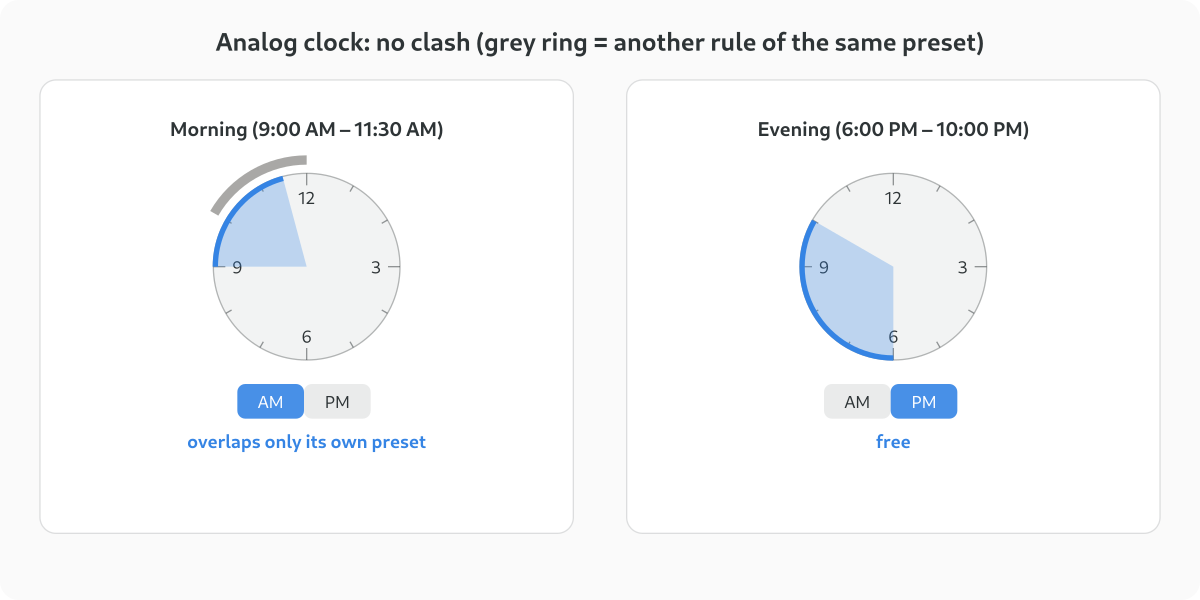
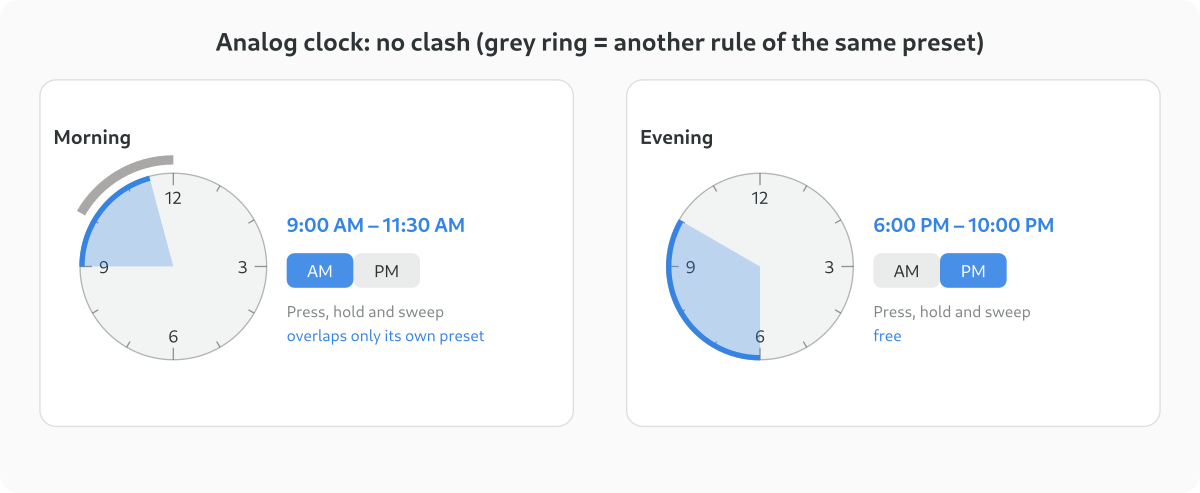
Tidy schedule UI: short dropdown labels (no ellipsis), clock side layout, separate time line; add AGENT-HANDOFF.md

diff --git a/docs/screens/make_mockups.py b/docs/screens/make_mockups.py
@@ -15,7 +15,8 @@ def arc(cx, cy, r, a, b):
     return f"M {x1:.1f} {y1:.1f} A {r} {r} 0 {int(b - a > 360)} 1 {x2:.1f} {y2:.1f}"
 
 def dial(cx, cy, title, own, others, color, labels=("12", "3", "6", "9"), caption="", pm=False):
-    s = f'<text x="{cx}" y="{cy-98}" text-anchor="middle" font-size="15" font-weight="bold" fill="{FG}">{title}</text>'
+    name, times = title.split(" (")
+    s = f'<text x="{cx-90}" y="{cy-92}" font-size="15" font-weight="bold" fill="{FG}">{name}</text>'
     s += f'<circle cx="{cx}" cy="{cy}" r="70" fill="{FG}" fill-opacity=".06" stroke="{FG}" stroke-opacity=".35"/>'
     for i in range(12):
         (x1, y1), (x2, y2) = pt(cx, cy, 70 - (9 if i % 3 == 0 else 5), i * 60), pt(cx, cy, 70, i * 60)
@@ -29,9 +30,11 @@ def dial(cx, cy, title, own, others, color, labels=("12", "3", "6", "9"), captio
     x1, y1 = pt(cx, cy, 70, a)
     s += f'<path d="M {cx} {cy} L {x1:.1f} {y1:.1f} A 70 70 0 {int(b - a > 360)} 1 {pt(cx, cy, 70, b)[0]:.1f} {pt(cx, cy, 70, b)[1]:.1f} Z" fill="{color}" fill-opacity=".28"/>'
     s += f'<path d="{arc(cx, cy, 68.5, a, b)}" stroke="{color}" stroke-width="4" fill="none"/>'
-    for dx, t, on in ((-52, "AM", not pm), (-2, "PM", pm)):
-        s += f'<rect x="{cx+dx}" y="{cy+88}" width="50" height="26" rx="6" fill="{BLUE if on else FG}" fill-opacity="{.9 if on else .1}"/><text x="{cx+dx+25}" y="{cy+106}" text-anchor="middle" font-size="13" fill="{"#fff" if on else FG}">{t}</text>'
-    s += f'<text x="{cx}" y="{cy+136}" text-anchor="middle" font-size="14" font-weight="bold" fill="{color}">{caption}</text>'
+    s += f'<text x="{cx+85}" y="{cy-26}" font-size="15" font-weight="bold" fill="{color}">{times.rstrip(")")}</text>'
+    for dx, t, on in ((0, "AM", not pm), (50, "PM", pm)):
+        s += f'<rect x="{cx+85+dx}" y="{cy-10}" width="50" height="26" rx="6" fill="{BLUE if on else FG}" fill-opacity="{.9 if on else .1}"/><text x="{cx+110+dx}" y="{cy+8}" text-anchor="middle" font-size="13" fill="{"#fff" if on else FG}">{t}</text>'
+    s += f'<text x="{cx+85}" y="{cy+38}" font-size="12" fill="{FG}" fill-opacity=".6">Press, hold and sweep</text>'
+    s += f'<text x="{cx+85}" y="{cy+56}" font-size="12" fill="{color}">{caption}</text>'
     return s
 
 def svg(w, h, body):
@@ -44,19 +47,19 @@ def card(x, y, w, h):
 # --- analog: "Morning" 9:00-12:00 is alone (blue), "Work" 11:00-5:00 PM overlaps it
 def analog():
     b = f'<text x="450" y="38" text-anchor="middle" font-size="19" font-weight="bold" fill="{FG}">Analog clock: press, hold and sweep</text>'
-    b += card(30, 60, 400, 340) + card(470, 60, 400, 340)
+    b += card(30, 60, 400, 260) + card(470, 60, 400, 260)
     # left: rule A being edited. B overlaps -> grey/red outside
-    b += dial(230, 200, "Morning (9:00 AM – 11:30 AM)", (540, 690), [(660, 720, RED)], RED, caption="overlaps “Work”")
-    b += dial(670, 200, "Work (11:00 AM – 5:00 PM)", (660, 720), [(540, 690, RED)], RED, caption="overlaps “Morning”")
-    b += f'<text x="450" y="425" text-anchor="middle" font-size="14" fill="{FG}">Overlapping rules show the other one as a ring and both turn red. Without an overlap: grey ring, blue arc.</text>'
-    return svg(900, 450, b)
+    b += dial(130, 200, "Morning (9:00 AM – 11:30 AM)", (540, 690), [(660, 720, RED)], RED, caption="overlaps “Work”")
+    b += dial(570, 200, "Work (11:00 AM – 5:00 PM)", (660, 720), [(540, 690, RED)], RED, caption="overlaps “Morning”")
+    b += f'<text x="450" y="345" text-anchor="middle" font-size="14" fill="{FG}">Overlapping rules show the other one as a ring and both turn red. Without an overlap: grey ring, blue arc.</text>'
+    return svg(900, 370, b)
 
 def analog_ok():
     b = f'<text x="450" y="38" text-anchor="middle" font-size="19" font-weight="bold" fill="{FG}">Analog clock: no clash (grey ring = another rule of the same preset)</text>'
-    b += card(30, 60, 400, 340) + card(470, 60, 400, 340)
-    b += dial(230, 200, "Morning (9:00 AM – 11:30 AM)", (540, 690), [(600, 720, GREY)], BLUE, caption="overlaps only its own preset")
-    b += dial(670, 200, "Evening (6:00 PM – 10:00 PM)", (360, 600), [], BLUE, caption="free", pm=True)
-    return svg(900, 450, b)
+    b += card(30, 60, 400, 260) + card(470, 60, 400, 260)
+    b += dial(130, 200, "Morning (9:00 AM – 11:30 AM)", (540, 690), [(600, 720, GREY)], BLUE, caption="overlaps only its own preset")
+    b += dial(570, 200, "Evening (6:00 PM – 10:00 PM)", (360, 600), [], BLUE, caption="free", pm=True)
+    return svg(900, 370, b)
 
 def digital():
     def t(x, y, text, c, hl_min=False):

diff --git a/src/ui/mod.rs b/src/ui/mod.rs
@@ -305,21 +305,25 @@ fn settings_page(ctx: &Rc<AppCtx>) -> (adw::PreferencesPage, Rc<dyn Fn()>) {
         let st = ctx.state.borrow();
         ((st.time_picker, st.end_action, st.swap_mode, st.per_preset_behaviour), st.swap_minutes)
     };
-    let group = adw::PreferencesGroup::builder().title("Schedule").description("How preset schedules are entered, and what happens at their edges.").build();
-    let combo = |title: &str, subtitle: &str, labels: Vec<&str>, selected: u32| {
-        adw::ComboRow::builder().title(title).subtitle(subtitle).model(&gtk::StringList::new(&labels)).selected(selected).build()
+    let group = adw::PreferencesGroup::builder()
+        .title("Schedule")
+        .description("Free: a swap stays until the schedule moves on. Timer: the schedule takes over again after a while. Lock: a scheduled preset cannot be swapped away.")
+        .build();
+    // Short choices, shown under the title (use_subtitle): a value beside the title gets squeezed into "…" in a narrow window.
+    let combo = |title: &str, labels: Vec<&str>, selected: u32| {
+        adw::ComboRow::builder().title(title).use_subtitle(true).model(&gtk::StringList::new(&labels)).selected(selected).build()
     };
-    let picker = combo("Time selection", "Spin boxes, an analog clock you sweep with the mouse, or a digital clock you drag up and down.", TimePicker::labels(), ts.0.index());
+    let picker = combo("Time selection", TimePicker::labels(), ts.0.index());
     {
         let ctx = ctx.clone();
         picker.connect_selected_notify(move |r| ctx.set_time_picker(TimePicker::from_index(r.selected())));
     }
-    let end = combo("When a scheduled preset ends", "Nothing is scheduled after it.", EndAction::labels(), ts.1.index());
+    let end = combo("When a scheduled preset ends", EndAction::labels(), ts.1.index());
     {
         let ctx = ctx.clone();
         end.connect_selected_notify(move |r| ctx.set_end_action(EndAction::from_index(r.selected())));
     }
-    let swap = combo("When I switch preset during a schedule", "Applies to the radio buttons, the dropdown and hotkeys.", SwapMode::labels(), ts.2.index());
+    let swap = combo("When I switch preset during a schedule", SwapMode::labels(), ts.2.index());
     let minutes = adw::SpinRow::builder().title("Timer length").subtitle("Minutes before the schedule takes over again").adjustment(&gtk::Adjustment::new(f64::from(ds), 1.0, 1440.0, 5.0, 30.0, 0.0)).build();
     minutes.set_visible(ts.2 == SwapMode::Timer);
     {
@@ -370,6 +374,7 @@ fn settings_page(ctx: &Rc<AppCtx>) -> (adw::PreferencesPage, Rc<dyn Fn()>) {
     let files = adw::PreferencesGroup::builder().title("Files").description("Applies to GIFs, PNGs, WebPs, widget folders and masks you add.").build();
     let storage = adw::ComboRow::builder()
         .title("When adding files")
+        .use_subtitle(true)
         .model(&gtk::StringList::new(&Storage::ALL.map(|s| s.label())))
         .selected(ctx.state.borrow().storage.index())
         .build();

diff --git a/src/ui/clock.rs b/src/ui/clock.rs
@@ -218,7 +218,7 @@ pub fn analog(ctx: &Rc<AppCtx>, rule: &Rule, h24: bool, edit: Edit) -> (gtk::Box
         });
     }
 
-    let summary = gtk::Label::builder().css_classes(["gifdeck-digital"]).halign(gtk::Align::Center).build();
+    let summary = gtk::Label::builder().css_classes(["gifdeck-digital"]).halign(gtk::Align::Start).build();
     let show = {
         let summary = summary.clone();
         move |s: u16, e: u16| summary.set_text(&format!("{} – {}", fmt_time(s, h24), fmt_time(e, h24)))
@@ -238,7 +238,7 @@ pub fn analog(ctx: &Rc<AppCtx>, rule: &Rule, h24: bool, edit: Edit) -> (gtk::Box
             }
         });
     }
-    let halves = gtk::Box::builder().css_classes(["linked"]).halign(gtk::Align::Center).build();
+    let halves = gtk::Box::builder().css_classes(["linked"]).halign(gtk::Align::Start).build();
     halves.append(&am);
     halves.append(&pm);
 
@@ -296,10 +296,15 @@ pub fn analog(ctx: &Rc<AppCtx>, rule: &Rule, h24: bool, edit: Edit) -> (gtk::Box
     }
     area.add_controller(drag);
 
-    let b = gtk::Box::builder().orientation(gtk::Orientation::Vertical).spacing(4).valign(gtk::Align::Center).tooltip_text("Press where the window starts, hold and sweep clockwise or counter-clockwise to where it ends").build();
+    // dial on the left; times, half-day buttons and a hint stacked on the right
+    let hint = gtk::Label::builder().label("Press, hold and sweep the dial").wrap(true).max_width_chars(16).xalign(0.0).css_classes(["dim-label", "caption"]).build();
+    let side = gtk::Box::builder().orientation(gtk::Orientation::Vertical).spacing(6).valign(gtk::Align::Center).build();
+    side.append(&summary);
+    side.append(&halves);
+    side.append(&hint);
+    let b = gtk::Box::builder().spacing(12).valign(gtk::Align::Center).tooltip_text("Press where the window starts, hold and sweep clockwise or counter-clockwise to where it ends").build();
     b.append(&area);
-    b.append(&halves);
-    b.append(&summary);
+    b.append(&side);
     (b, area)
 }
 

diff --git a/src/ui/presets_page.rs b/src/ui/presets_page.rs
@@ -136,7 +136,7 @@ fn hotkey_button(ctx: &Rc<AppCtx>, id: &str, current: Option<&str>) -> gtk::Butt
 /// Gear with this preset's own end / swap behaviour; only shown while the setting is per preset.
 fn behaviour_button(ctx: &Rc<AppCtx>, p: &Preset) -> gtk::MenuButton {
     fn dropdown(labels: Vec<&str>, current: Option<u32>) -> gtk::DropDown {
-        let mut all = vec!["Use the global setting"];
+        let mut all = vec!["Global setting"];
         all.extend(labels);
         let d = gtk::DropDown::from_strings(&all);
         d.set_selected(current.map_or(0, |i| i + 1));
@@ -396,7 +396,8 @@ impl PresetsPage {
         let ctx = self.ctx.clone();
         let id = rule.id.clone();
         let h24 = ctx.state.borrow().time_24h;
-        let wrap = super::wrap_row(8);
+        let wrap = super::wrap_row(6);
+        let time_line = super::wrap_row(2);
         let edit = {
             let (ctx, id) = (ctx.clone(), id.clone());
             Rc::new(move |f: Box<dyn FnOnce(&mut Rule)>| ctx.edit_rule(&id, f)) as super::clock::Edit
@@ -470,8 +471,8 @@ impl PresetsPage {
                 }
             });
         }
-        wrap.append(&all_day);
-        wrap.append(&window);
+        time_line.append(&all_day);
+        time_line.append(&window);
 
         // "Only if application is open"
         let only_open = gtk::CheckButton::builder().label("Only if application is open").active(rule.only_if_open).valign(gtk::Align::Center).build();
@@ -527,6 +528,7 @@ impl PresetsPage {
         }
         let stack = gtk::Box::builder().orientation(gtk::Orientation::Vertical).margin_bottom(6).build();
         stack.append(&wrap);
+        stack.append(&time_line);
         stack.append(&gate_line);
         let row = gtk::ListBoxRow::builder().activatable(false).child(&stack).build();
         self.marks.borrow_mut().push(RuleMarks {

diff --git a/src/model.rs b/src/model.rs
@@ -384,9 +384,9 @@ choice! {
     /// What happens when a scheduled preset ends and no rule follows it.
     EndAction {
         #[default]
-        LeaveOn => "Leave the preset on",
-        Random => "Switch to a random preset",
-        TurnOff => "Turn all widgets off",
+        LeaveOn => "Leave it on",
+        Random => "Random preset",
+        TurnOff => "Turn widgets off",
     }
 }
 
@@ -394,9 +394,9 @@ choice! {
     /// What happens when the user swaps presets while a schedule is in force.
     SwapMode {
         #[default]
-        Free => "Free: the swap stays until the schedule moves on",
-        Timer => "Timer: go back to the schedule after a while",
-        Lock => "Lock: the schedule cannot be swapped away",
+        Free => "Free",
+        Timer => "Timer",
+        Lock => "Lock",
     }
 }
 
@@ -405,8 +405,8 @@ choice! {
     TimePicker {
         #[default]
         Spin => "Number boxes",
-        Analog => "Analog clock (sweep an arc)",
-        Digital => "Digital clock (drag the numbers)",
+        Analog => "Analog clock",
+        Digital => "Digital clock",
     }
 }
 

diff --git a/AGENT-HANDOFF.md b/AGENT-HANDOFF.md
@@ -1,0 +1,32 @@
+# AGENT HANDOFF: GifDeck
+
+Read this first. Update it before you stop.
+
+## What this is
+Rust + GTK4 + libadwaita desktop app: animated GIF/PNG/WebP widgets, one process, presets, schedules.
+Map: `src/ctx.rs` (the only place that mutates state), `src/model.rs` (state + pure logic, unit-tested),
+`src/ui/*` (manager window; `clock.rs` = analog/digital schedule pickers), `src/hotkeys.rs` (X11 global key grabs),
+`src/manager.rs` + `widget.rs` + `layer_host.rs` (the widget windows). Check with `cargo check --offline` and `cargo test --offline`.
+
+## Done recently
+Per-preset hotkeys (+ `gifdeck --preset NAME`), analog/digital schedule clocks, schedule end action, swap behaviour
+(global or per preset), mask hover preview, preset-rename focus fix. README has simulated screenshots
+(`docs/screens/make_mockups.py`: no real captures; if a real one is ever needed, use only the `Default` preset).
+
+## Never commit
+Personal paths, usernames, real widget files, `.pi/`, screenshots of the user's own presets.
+
+## GNOME UI lesson: dropdown values cut off by "…" (do not repeat)
+**Symptom:** `adw::ComboRow` / `gtk::DropDown` options show as `Free: the swap stays until the sch…`.
+
+**Why it keeps happening:** an agent writes each option as a full sentence (and adds a subtitle to the row) because it
+reads well in code. But a `ComboRow` shows its selected value in a label *beside* the title, ellipsized at the end, and that
+label gets whatever width is left after the title and subtitle. In the default 480 px window there is almost none, so GTK
+truncates it. The agent never opens the window at the real width, so the cut-off is never seen; code that compiles looks finished.
+
+**Rules:**
+1. Option labels are 1-3 words ("Random preset", "Lock"). Explanations go in the group `description`, the row subtitle of a row *without* a value, or a tooltip.
+2. For a `ComboRow` whose options are longer than a word or two, call `.use_subtitle(true)`: the value then sits under the title with the full row width.
+3. Do not "fix" this with `ellipsize(None)` or `max_width_chars`; shorten the text instead.
+4. A `gtk::DropDown` is as wide as its longest option, so do not put one in a narrow container (FlowBox row, small popover) with long text.
+5. Check every new row at the default window width (480 px) before calling the UI done.
